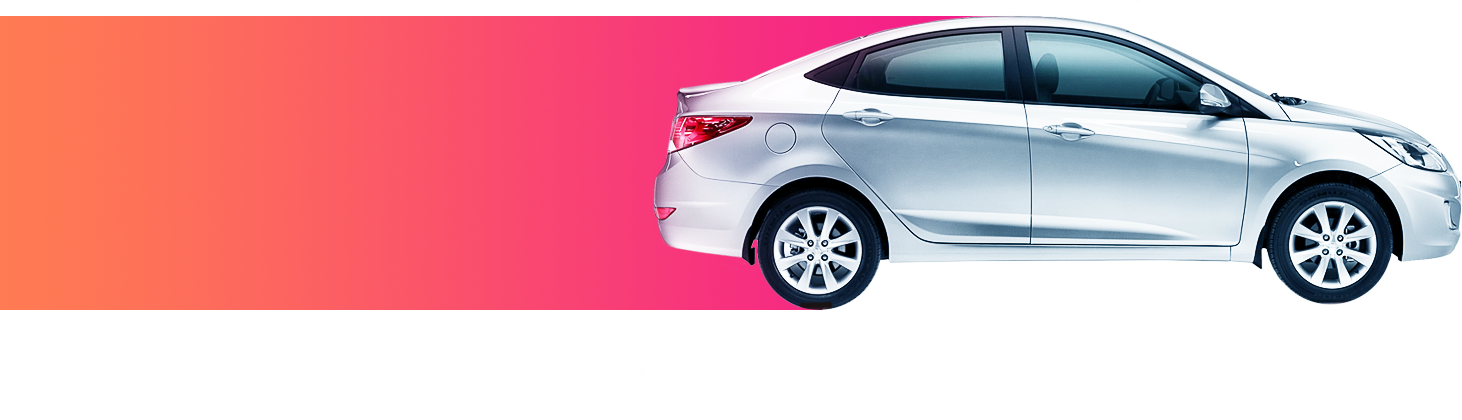
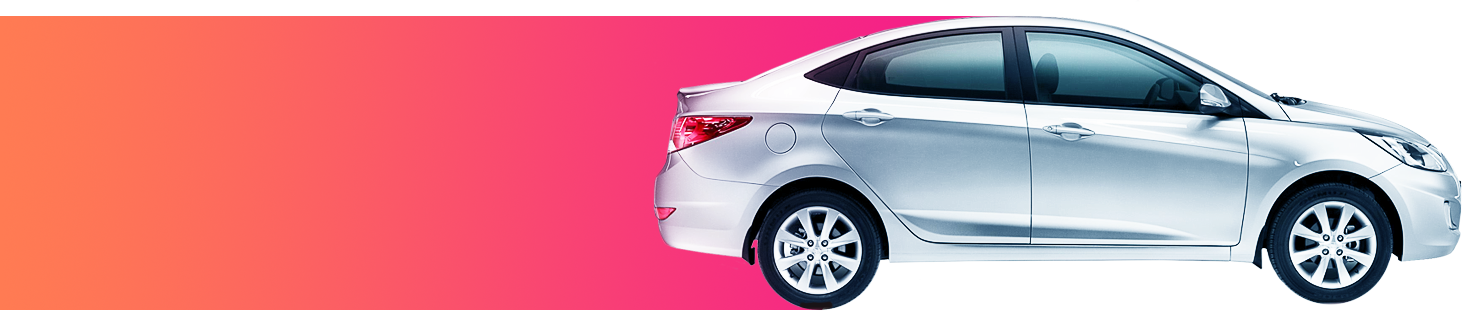
finish background parts

diff --git a/assets/fonts/svg-font/svg-font.css b/assets/fonts/svg-font/svg-font.css
@@ -1,11 +1,11 @@
 @font-face {
   font-family: 'svg-font';
-  src: url('../font/svg-font.eot?30790997');
-  src: url('../font/svg-font.eot?30790997#iefix') format('embedded-opentype'),
-       url('../font/svg-font.woff2?30790997') format('woff2'),
-       url('../font/svg-font.woff?30790997') format('woff'),
-       url('../font/svg-font.ttf?30790997') format('truetype'),
-       url('../font/svg-font.svg?30790997#svg-font') format('svg');
+  src: url('svg-font.eot?30790997');
+  src: url('svg-font.eot?30790997#iefix') format('embedded-opentype'),
+       url('svg-font.woff2?30790997') format('woff2'),
+       url('svg-font.woff?30790997') format('woff'),
+       url('svg-font.ttf?30790997') format('truetype'),
+       url('svg-font.svg?30790997#svg-font') format('svg');
   font-weight: normal;
   font-style: normal;
 }
@@ -15,12 +15,12 @@
 @media screen and (-webkit-min-device-pixel-ratio:0) {
   @font-face {
     font-family: 'svg-font';
-    src: url('../font/svg-font.svg?30790997#svg-font') format('svg');
+    src: url('svg-font.svg?30790997#svg-font') format('svg');
   }
 }
 
  
- [class^="icon-"]:before, [class*=" icon-"]:before {
+ [class^="svg-icon-"]:before, [class*=" svg-icon-"]:before {
   font-family: "svg-font";
   font-style: normal;
   font-weight: normal;
@@ -57,16 +57,16 @@
  
  
  
-.icon-dashboard:before { content: '\61'; } /* 'a' */
-.icon-gearbox-2:before { content: '\64'; } /* 'd' */
-.icon-twitter-logo:before { content: '\65'; } /* 'e' */
-.icon-steering-wheel:before { content: '\69'; } /* 'i' */
-.icon-traffic-light:before { content: '\6f'; } /* 'o' */
-.icon-gearbox:before { content: '\70'; } /* 'p' */
-.icon-gerb:before { content: '\71'; } /* 'q' */
-.icon-calendar:before { content: '\72'; } /* 'r' */
-.icon-light:before { content: '\73'; } /* 's' */
-.icon-map-location:before { content: '\74'; } /* 't' */
-.icon-speed-limit:before { content: '\75'; } /* 'u' */
-.icon-logo-bm:before { content: '\77'; } /* 'w' */
-.icon-mechanics:before { content: '\79'; } /* 'y' */
+.svg-icon-dashboard:before { content: '\61'; } /* 'a' */
+.svg-icon-gearbox-2:before { content: '\64'; } /* 'd' */
+.svg-icon-twitter-logo:before { content: '\65'; } /* 'e' */
+.svg-icon-steering-wheel:before { content: '\69'; } /* 'i' */
+.svg-icon-traffic-light:before { content: '\6f'; } /* 'o' */
+.svg-icon-gearbox:before { content: '\70'; } /* 'p' */
+.svg-icon-gerb:before { content: '\71'; } /* 'q' */
+.svg-icon-calendar:before { content: '\72'; } /* 'r' */
+.svg-icon-light:before { content: '\73'; } /* 's' */
+.svg-icon-map-location:before { content: '\74'; } /* 't' */
+.svg-icon-speed-limit:before { content: '\75'; } /* 'u' */
+.svg-icon-logo-bm:before { content: '\77'; } /* 'w' */
+.svg-icon-mechanics:before { content: '\79'; } /* 'y' */

diff --git a/assets/css/style.css b/assets/css/style.css
@@ -5,18 +5,85 @@ body {
     color: white;
 }
 
-.main {
+.main-promo {
     background-image: url('/assets/images/png/bg.png');
     position: fixed;
     width: 100%;
     height: 100%;
 }
 
-.reg-page {
+.main-promo .bg-part {
+    position: fixed;
+    font-size: 36px;
+    color: #186e99;
+}
+
+.main-promo .bg-part-1 {
+    top: 20%;
+    left: 5%;
+    transform: rotate(-10deg);
+}
+
+.main-promo .bg-part-2 {
+    top: 12%;
+    left: 40%;
+    transform: rotate(7deg);
+    font-size: 32px;
+}
+
+.main-promo .bg-part-3 {
+    top: 45%;
+    left: 2%;
+    transform: rotate(25deg);
+    color: #71cbe7;
+    font-size: 50px;
+}
+
+.main-promo .bg-part-4 {
+    top: 72%;
+    left: 22%;
+    transform: rotate(-40deg);
+    font-size: 45px;
+}
+
+.main-promo .bg-part-5 {
+    top: 85%;
+    left: 10%;
+    font-size: 45px;
+}
+
+.main-promo .bg-part-6 {
+    top: 19%;
+    right: 32%;
+    font-size: 48px;
+}
+
+.main-promo .bg-part-7 {
+    top: 7%;
+    right: 4%;
+    transform: rotate(10deg);
+    color: #146094;
+    font-size: 50px;
+}
+
+.main-promo .bg-part-8 {
+    top: 74%;
+    right: 31%;
+    transform: rotate(12deg);
+    font-size: 45px;
+}
+
+.main-promo .bg-part-9 {
+    bottom: 7%;
+    right: 7%;
+    font-size: 47px;
+}
+
+.reg-promo-page {
     background: rgba(255, 255, 255, 0.17);
 }
 
-.car {
+.animated-promo-car {
     /*background-image: url('/assets/images/png/car.png');
     background-repeat: no-repeat;*/
     max-width: 1420px;
@@ -24,6 +91,8 @@ body {
     animation: car-move 1s 1;
     animation-timing-function: ease-out;
     position: absolute;
+    top: 50%;
+    transform: translateY(-50%);
 }
 
 @keyframes car-move {
@@ -31,7 +100,28 @@ body {
     to {left:0;}
 }
 
+.promo-content {
+    padding: 0 130px;
+}
+
+.promo-content header {
+    padding-top: 42px;
+}
+
+.logo {
+    font-size: 44px;
+}
+
+.gerb {
+    font-size: 44px;
+}
+
+.gerb-text {
+    float: right;
+}
+
 /* Bootstrap padding fixes*/
 .container, .container-fluid {
     padding: 0;
 }
+

diff --git a/index.php b/index.php
@@ -7,22 +7,32 @@
         <link rel="stylesheet" href="/assets/libs/jquery/onepage-scroll/onepage-scroll.css">
         <link rel="stylesheet" href="/assets/libs/bootstrap-3.3.7-dist/css/bootstrap.min.css">
         <link rel="stylesheet" href="/assets/libs/bootstrap-3.3.7-dist/css/bootstrap-theme.min.css">
-        <link rel="stylesheet" href="/assets/css/style.css">
         <link rel="stylesheet" href="/assets/fonts/svg-font/svg-font.css">
+        <link rel="stylesheet" href="/assets/css/style.css">
         <link rel="stylesheet" href="/assets/fonts/Circe/stylesheet.css">
     </head>
     <body>
-        <div class="main">
+        <div class="main-promo">
+            <span class="bg-part bg-part-1 svg-icon-light"></span>
+            <span class="bg-part bg-part-2 svg-icon-dashboard"></span>
+            <span class="bg-part bg-part-3 svg-icon-map-location"></span>
+            <span class="bg-part bg-part-4 svg-icon-speed-limit"></span>
+            <span class="bg-part bg-part-5 svg-icon-gearbox-2"></span>
+            <span class="bg-part bg-part-6 svg-icon-gearbox"></span>
+            <span class="bg-part bg-part-7 svg-icon-traffic-light"></span>
+            <span class="bg-part bg-part-8 svg-icon-mechanics"></span>
+            <span class="bg-part bg-part-9 svg-icon-steering-wheel"></span>
             <div class="onepage-scroll-wrapper">
-                <section class="container main-page">
-                    <div>Check font</div>
-                    <div>Проверка фона</div>
-                    <div>Проверка фона</div>
-                    <div>Проверка фона</div>
-                    <div>Проверка фона</div>
-                    <img class="car" src="/assets/images/png/car.png"/>
+                <section class="container-fluid main-promo-page">
+                    <div class="promo-content">
+                        <header>
+                            <span class="logo svg-icon-logo-bm"></span>
+                            <span class="gerb-text"><span class="gerb svg-icon-gerb"></span> Первый региональный каршеринг</span>
+                        </header>
+                    </div>
+                    <img class="animated-promo-car" src="/assets/images/png/car.png"/>
                 </section>
-                <section class="container-fluid reg-page">2</section>
+                <section class="container-fluid reg-promo-page">2</section>
             </div>
         </div>
         <script>
